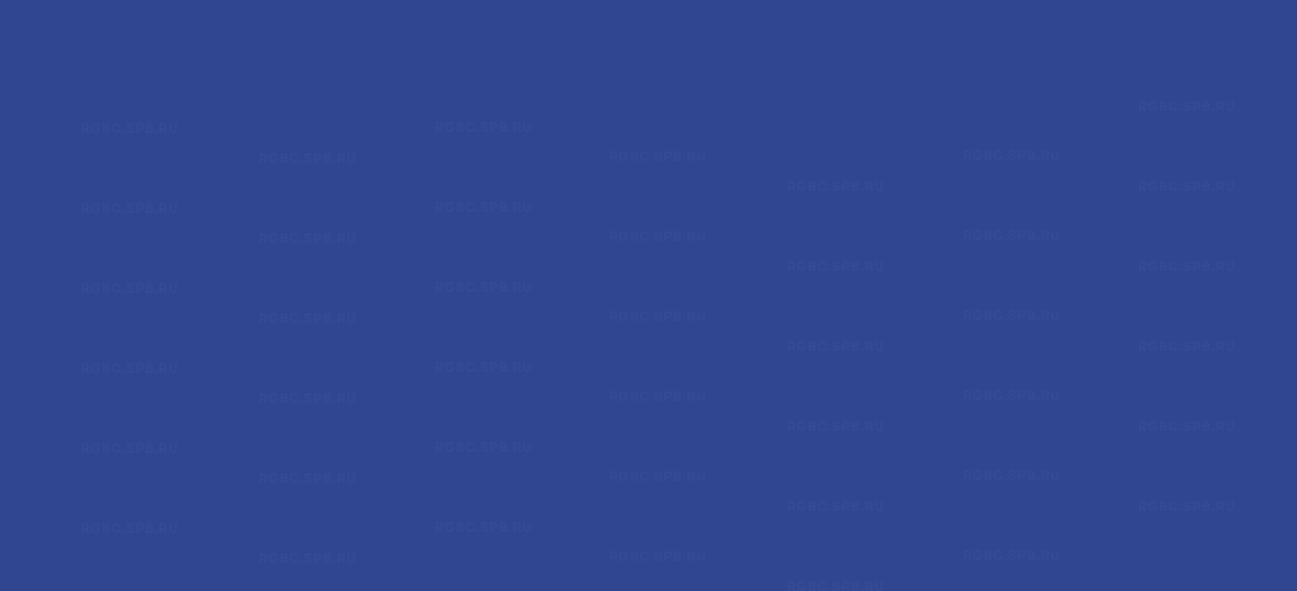
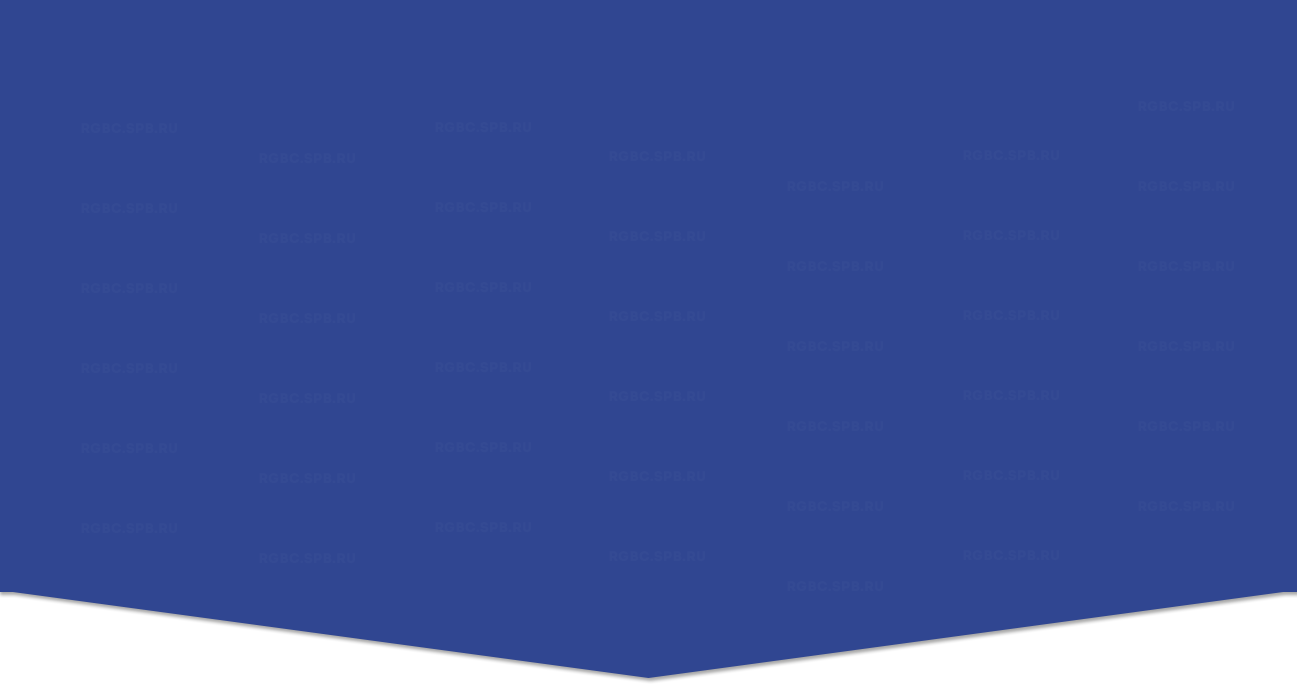
ddddddf

Changed region(s): [[0.0, 0.8528, 1.0, 1.0]]

diff --git a/rgbc/css/main.css b/rgbc/css/main.css
@@ -206,7 +206,8 @@ header {
   background-color: #fcfcfc;
   padding: 42px 0 25px 0;
   background-repeat: no-repeat;
-  background-position: center center; }
+  background-position: center center;
+  position: relative; }
   .services hr {
     width: 190px;
     height: 4px;
@@ -216,6 +217,16 @@ header {
     margin-bottom: 57px; }
   .services .col-lg-4 {
     margin-bottom: 50px; }
+
+.triangle {
+  width: 100%;
+  position: absolute;
+  bottom: 0;
+  z-index: 100;
+  margin-bottom: -106px; }
+  .triangle #triangle {
+    width: 100%;
+    height: 106px; }
 
 .services-block {
   width: 210px;
@@ -272,15 +283,6 @@ header {
     text-align: left; }
   .desc .col-lg-6:nth-child(1) {
     padding: 0; }
-
-.triangle {
-  width: 100%;
-  position: absolute;
-  top: 0;
-  z-index: 100;
-  margin-top: -1px; }
-  .triangle #triangle {
-    width: 100%; }
 
 .desc-slider-wrap {
   width: 100%;
@@ -429,7 +431,8 @@ header {
 /*******************************************************Transition*****************************************/
 .transition {
   padding: 8px 0px 0px 0px;
-  min-height: 332px; }
+  min-height: 332px;
+  position: relative; }
   .transition h2 {
     position: relative;
     margin-bottom: 15px;
@@ -507,13 +510,25 @@ header {
       .transition-block .form-wrap form button:hover {
         opacity: 0.7; }
 
+.triangle-scheme {
+  width: 100%;
+  position: absolute;
+  bottom: 0;
+  z-index: 100;
+  margin-bottom: -111px; }
+  .triangle-scheme #triangle-scheme {
+    width: 100%;
+    height: 106px; }
+
 /*******************************************************Scheme*****************************************/
 #scheme {
   width: 100%;
-  min-height: 591px;
-  background-repeat: repeat;
+  min-height: 690px;
+  background-repeat: no-repeat;
   position: relative;
-  padding-top: 121px; }
+  z-index: 1;
+  background-size: 100% 100%;
+  padding-top: 115px; }
   #scheme h2 {
     color: #fff; }
   #scheme hr {
@@ -525,15 +540,6 @@ header {
     background-color: #acb5d3;
     margin: 32px auto 40px auto;
     border: none; }
-
-.triangle-scheme {
-  width: 100%;
-  position: absolute;
-  top: 0;
-  z-index: 100;
-  margin-top: -1px; }
-  .triangle-scheme #triangle-scheme {
-    width: 100%; }
 
 .scheme-block-icon {
   position: relative; }
@@ -659,7 +665,8 @@ header {
   background-position: center center;
   background-size: cover;
   position: relative;
-  padding-bottom: 240px; }
+  padding-bottom: 240px;
+  margin-top: -160px; }
   .photos h2 {
     margin-top: 192px;
     margin-bottom: 14px; }

diff --git a/rgbc/sass/main.sass b/rgbc/sass/main.sass
@@ -194,6 +194,7 @@ header
 	padding: 42px 0 25px 0
 	background-repeat: no-repeat
 	background-position: center center	
+	position: relative
 	hr
 		width: 190px
 		height: 4px
@@ -202,7 +203,16 @@ header
 		margin-top: 30px
 		margin-bottom: 57px
 	.col-lg-4
-		margin-bottom: 50px		
+		margin-bottom: 50px	
+.triangle
+	width: 100%	
+	position: absolute
+	bottom: 0
+	z-index: 100
+	margin-bottom: -106px
+	#triangle
+		width: 100%
+		height: 106px	
 .services-block
 	width: 210px
 	height: 250px
@@ -256,14 +266,6 @@ header
 		text-align: left
 	.col-lg-6:nth-child(1)		
 		padding: 0
-.triangle
-	width: 100%	
-	position: absolute
-	top: 0
-	z-index: 100
-	margin-top: -1px
-	#triangle
-		width: 100%
 .desc-slider-wrap
 	width: 100%
 	height: 812px
@@ -405,7 +407,8 @@ header
 /*******************************************************Transition*****************************************/	
 .transition
 	padding: 8px 0px 0px 0px
-	min-height: 332px	
+	min-height: 332px
+	position: relative	
 	h2
 		position: relative
 		margin-bottom: 15px
@@ -479,14 +482,25 @@ header
 				border-radius: 5px
 			button:hover
 				opacity: 0.7
+.triangle-scheme
+	width: 100%	
+	position: absolute
+	bottom: 0
+	z-index: 100
+	margin-bottom: -111px
+	#triangle-scheme
+		width: 100%
+		height: 106px
 
 /*******************************************************Scheme*****************************************/	
 #scheme
 	width: 100%
-	min-height: 591px
-	background-repeat: repeat
+	min-height: 690px
+	background-repeat: no-repeat
 	position: relative
-	padding-top: 121px
+	z-index: 1
+	background-size: 100% 100%
+	padding-top: 115px
 	h2
 		color: #fff
 	hr
@@ -498,14 +512,6 @@ header
 		background-color: #acb5d3
 		margin: 32px auto 40px auto
 		border: none
-.triangle-scheme
-	width: 100%	
-	position: absolute
-	top: 0
-	z-index: 100
-	margin-top: -1px
-	#triangle-scheme
-		width: 100%
 .scheme-block-icon
 	position: relative
 .icon-wrap
@@ -622,6 +628,7 @@ header
 	background-size: cover
 	position: relative
 	padding-bottom: 240px
+	margin-top: -160px
 	h2
 		margin-top: 192px
 		margin-bottom: 14px

diff --git a/rgbc/index.html b/rgbc/index.html
@@ -209,15 +209,15 @@
 						<a href="">и многое другое</a>
 					</div>
 				</div>
-			</div>
+			</div>			
+		</div>
+		<div class="triangle">
+			<canvas id="triangle" width="1440" height="110">Triangle</canvas>
 		</div>
 	</section>
 
 	<!--Desc-->
-	<section class="desc">		
-		<div class="triangle">
-			<canvas id="triangle" width="1440" height="110">Triangle</canvas>
-		</div>
+	<section class="desc">
 		<div class="container">
 			<div class="row">
 				<div class="col-lg-6 col-md-6 col-sm-12">
@@ -373,13 +373,13 @@
 				</div>
 			</div>
 		</div>
-	</section>
-
-	<!--Scheme-->
-	<section id="scheme" style="background-image: url('img/sheme-bg.png');">
 		<div class="triangle-scheme">
 			<canvas id="triangle-scheme" width="1440" height="110">Triangle</canvas>
 		</div>
+	</section>
+
+	<!--Scheme-->
+	<section id="scheme" style="background-image: url('img/sheme-bg.png');">		
 		<div class="container">
 			<div class="row">
 				<div class="col-lg-12">
@@ -472,8 +472,7 @@
 	</section>
 
 	<!--Photos-->
-	<section class="photos" style="background-image: url(img/photos-bg.jpg);">
-		<div class="triangle-photos" style="background-image: url('img/sheme-bg1.png');"></div>
+	<section class="photos" style="background-image: url(img/photos-bg.jpg);">		
 		<div class="motor2">
 			<img src="img/motor2.png" alt="motor-two-image">
 		</div>

diff --git a/rgbc/css/media.css b/rgbc/css/media.css
@@ -537,6 +537,16 @@
 		padding: 0px;
 	}
 
+	#scheme{
+		background-image: url(../img/sheme-bg-small.png)!important;
+		background-repeat: repeat-y;
+		background-size: auto;
+	}
+
+	.photos{
+		margin-top: 0px;
+	}
+
 }
 
 @media only screen and (min-width : 480px) and (max-width : 767px){
@@ -930,6 +940,17 @@
 		margin-left: auto;
 	}
 
+	#scheme{
+		background-image: url(../img/sheme-bg-small.png)!important;
+		background-repeat: repeat-y;
+		background-size: auto;
+	}
+
+	.photos{
+		margin-top: 0px;
+	}
+
+
 }
 
 
@@ -1181,6 +1202,9 @@
 		padding-right: 200px;
 	}
 		
+	#scheme{
+		min-height: 900px;
+	}
 
 }
 
